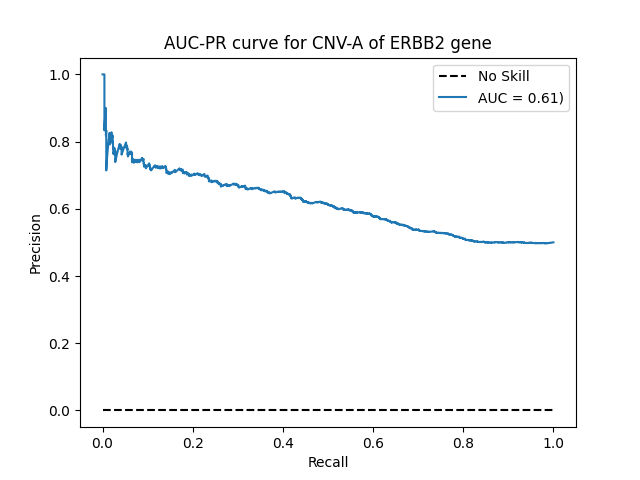
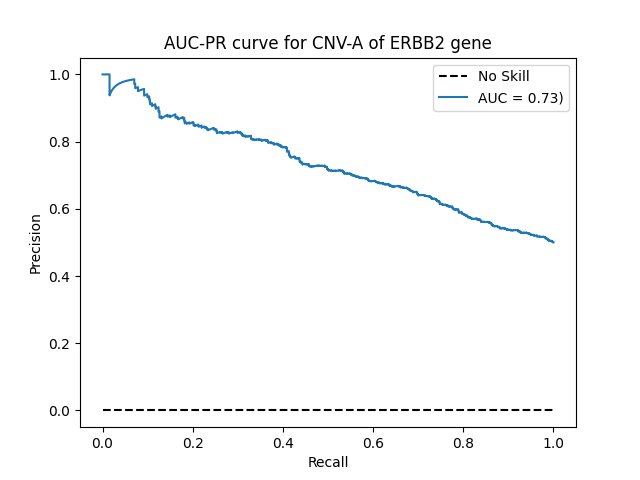
Imágenes de mutaciones terminadas.

diff --git a/mutations/image/ERBB2 CNV-A/inference/codes/tcga[CNV-A ERBB2]inference.py b/mutations/image/ERBB2 CNV-A/inference/codes/tcga[CNV-A ERBB2]inference.py
@@ -13,10 +13,10 @@ import itertools
 
 """ Se carga el modelo de red neuronal entrenado y los distintos datos de entrada y datos de salida guardados en formato 
 'numpy' """
-model = load_model('/home/avalderas/img_slides/mutations/image/ERBB2 CNV-A/inference/models/model_image_erbb')
+model = load_model('/home/avalderas/img_slides/mutations/image/ERBB2 CNV-A/inference/models/model_image_erbb2_03_0.91.h5')
 
-test_image_data = np.load('/home/avalderas/img_slides/mutations/image/ERBB2 CNV-A/training/test_i')
-test_labels_erbb2 = np.load('/home/avalderas/img_slides/mutations/image/ERBB2 CNV-A/training/test_labe')
+test_image_data = np.load('/home/avalderas/img_slides/mutations/image/ERBB2 CNV-A/inference/test data/normalized/test_image.npy')
+test_labels_erbb2 = np.load('/home/avalderas/img_slides/mutations/image/ERBB2 CNV-A/inference/test data/normalized/test_labels.npy')
 
 """ Una vez entrenado el modelo, se puede evaluar con los datos de test y obtener los resultados de las métricas
 especificadas en el proceso de entrenamiento. En este caso, se decide mostrar los resultados de la 'loss', la exactitud,
@@ -58,7 +58,7 @@ def plot_confusion_matrix(cm, classes, normalize = False, title = 'Matriz de con
 
     thresh = cm.max() / 2.
     for il, j in itertools.product(range(cm.shape[0]), range(cm.shape[1])):
-        plt.text(j, il, cm[il, j], horizontalalignment = "center", color = "white" if cm[il, j] > thresh else "black")
+        plt.text(j, il, cm[il, j], horizontalalignment = "center", color = "black" if cm[il, j] > thresh else "black")
 
     plt.tight_layout()
     plt.ylabel('Clase verdadera')

diff --git a/mutations/image/ERBB2 CNV-A/training/image[CNV-A ERBB2]training.py b/mutations/image/ERBB2 CNV-A/training/image[CNV-A ERBB2]training.py
@@ -402,8 +402,8 @@ test_labels_erbb2 = np.asarray(test_labels_erbb2).astype('float32')
 
 """ Se pueden guardar en formato de 'numpy' las imágenes y las etiquetas de test para usarlas después de entrenar la red
 neuronal convolucional. """
-np.save('test_image', test_image_data)
-np.save('test_labels', test_labels_erbb2)
+#np.save('test_image', test_image_data)
+#np.save('test_labels', test_labels_erbb2)
 
 """ -------------------------------------------------------------------------------------------------------------------
 ---------------------------------- SECCIÓN MODELO DE RED NEURONAL CONVOLUCIONAL ---------------------------------------
@@ -477,7 +477,7 @@ model.summary()
 """ Una vez descongelado las capas convolucionales seleccionadas y compilado de nuevo el modelo, se entrena otra vez. """
 neural_network = model.fit(x = train_image_data, y = train_labels_erbb2,
                            epochs = 30, verbose = 1, validation_data = (valid_image_data, valid_labels_erbb2),
-                           callbacks = [mcp_loss, mcp_accuracy],
+                           #callbacks = [mcp_loss, mcp_accuracy],
                            steps_per_epoch = (train_image_data_len / batch_dimension),
                            validation_steps = (valid_image_data_len / batch_dimension))
 

diff --git a/mutations/image&data/TP53 SNV/training/image&data[SNV TP53]training.py b/mutations/image&data/TP53 SNV/training/image&data[SNV TP53]training.py
@@ -645,13 +645,13 @@ for layer in cnn_model.layers:
 
 """ Es importante recompilar el modelo después de hacer cualquier cambio al atributo 'trainable', para que los cambios
 se tomen en cuenta. """
-model.compile(optimizer = keras.optimizers.Adam(learning_rate = 0.0001),
+model.compile(optimizer = keras.optimizers.Adam(learning_rate = 0.00001),
               loss = 'binary_crossentropy',
               metrics = metrics)
 model.summary()
 
 """ Una vez descongelado las capas convolucionales seleccionadas y compilado de nuevo el modelo, se entrena otra vez. """
-neural_network = model.fit(x = [train_data, train_image_data], y = train_labels_tp53, epochs = 20, verbose = 1,
+neural_network = model.fit(x = [train_data, train_image_data], y = train_labels_tp53, epochs = 10, verbose = 1,
                            validation_data = ([valid_data, valid_image_data], valid_labels_tp53),
                            callbacks = [mcp_loss, mcp_accuracy],
                            steps_per_epoch = (train_image_data_len / batch_dimension),

diff --git a/mutations/image&data/TP53 SNV/inference/codes/tcga[SNV TP53]inference.py b/mutations/image&data/TP53 SNV/inference/codes/tcga[SNV TP53]inference.py
@@ -14,7 +14,7 @@ from sklearn.metrics import roc_curve, auc, precision_recall_curve
 
 """ Se carga el modelo de red neuronal entrenado y los distintos datos de entrada y datos de salida guardados en formato 
 'numpy' """
-model = load_model('/home/avalderas/img_slides/mutations/image&data/TP53 SNV/inference/models/model_image&data_tp53_02_0.')
+model = load_model('/home/avalderas/img_slides/mutations/image&data/TP53 SNV/inference/models/model_image&data_tp53_02_0.64_1.h5')
 
 test_data = np.load('/home/avalderas/img_slides/mutations/image&data/TP53 SNV/inference/test data/normalized/test_data.npy')
 test_image = np.load('/home/avalderas/img_slides/mutations/image&data/TP53 SNV/inference/test data/normalized/test_image.npy')
